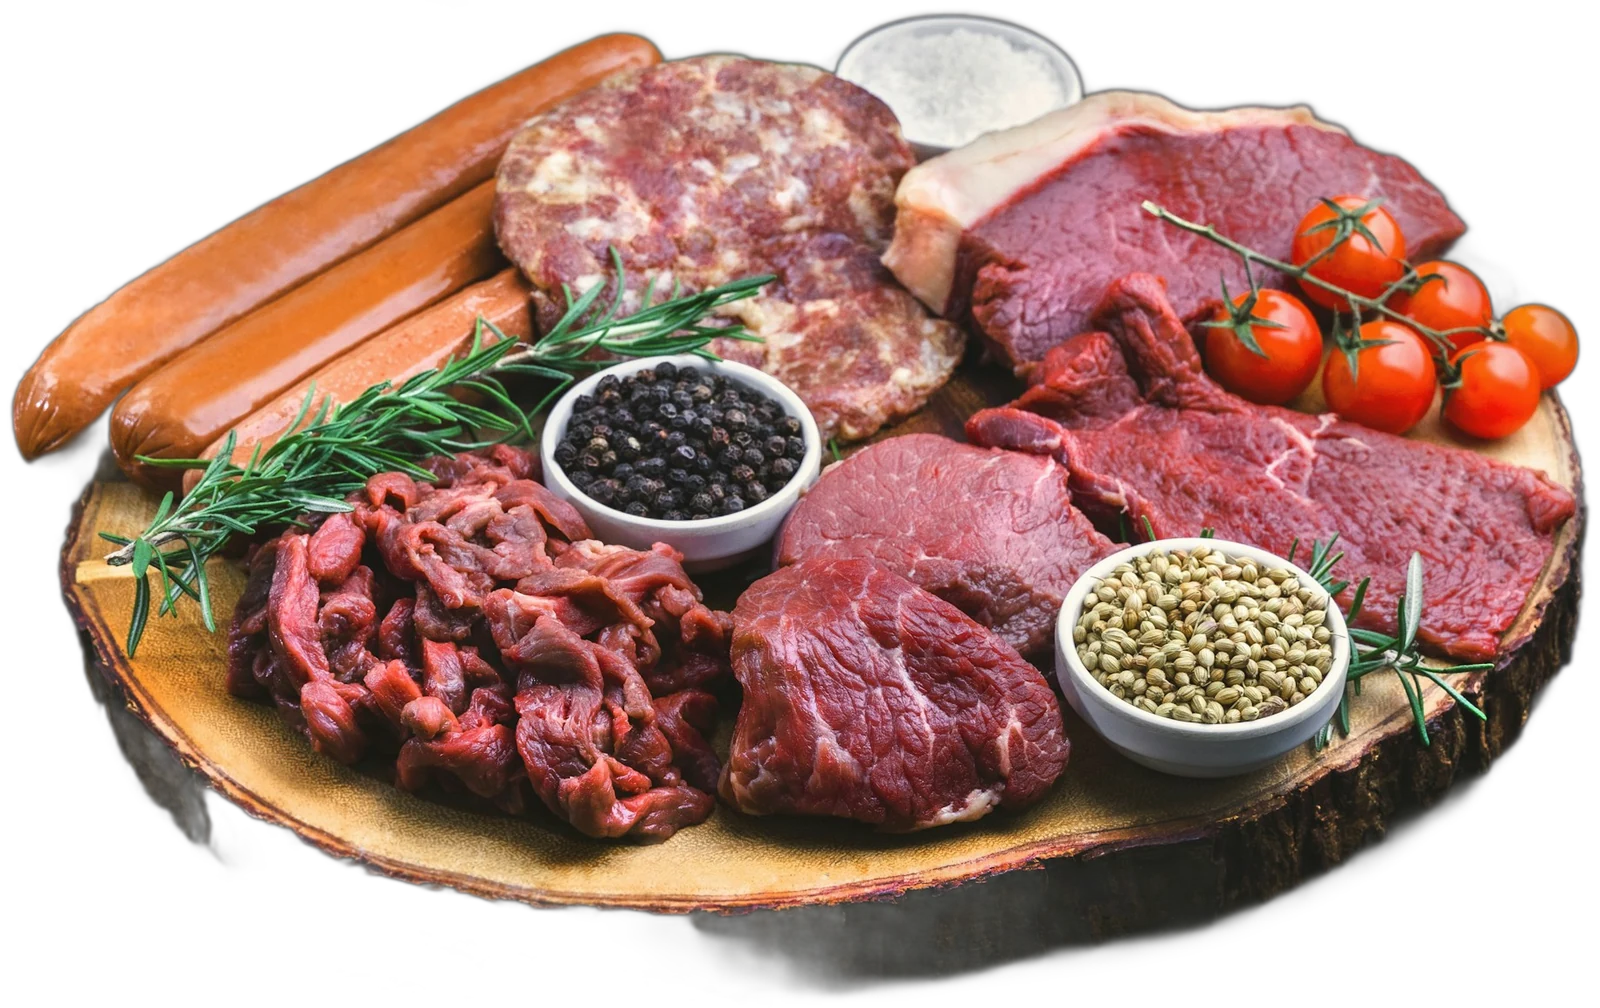
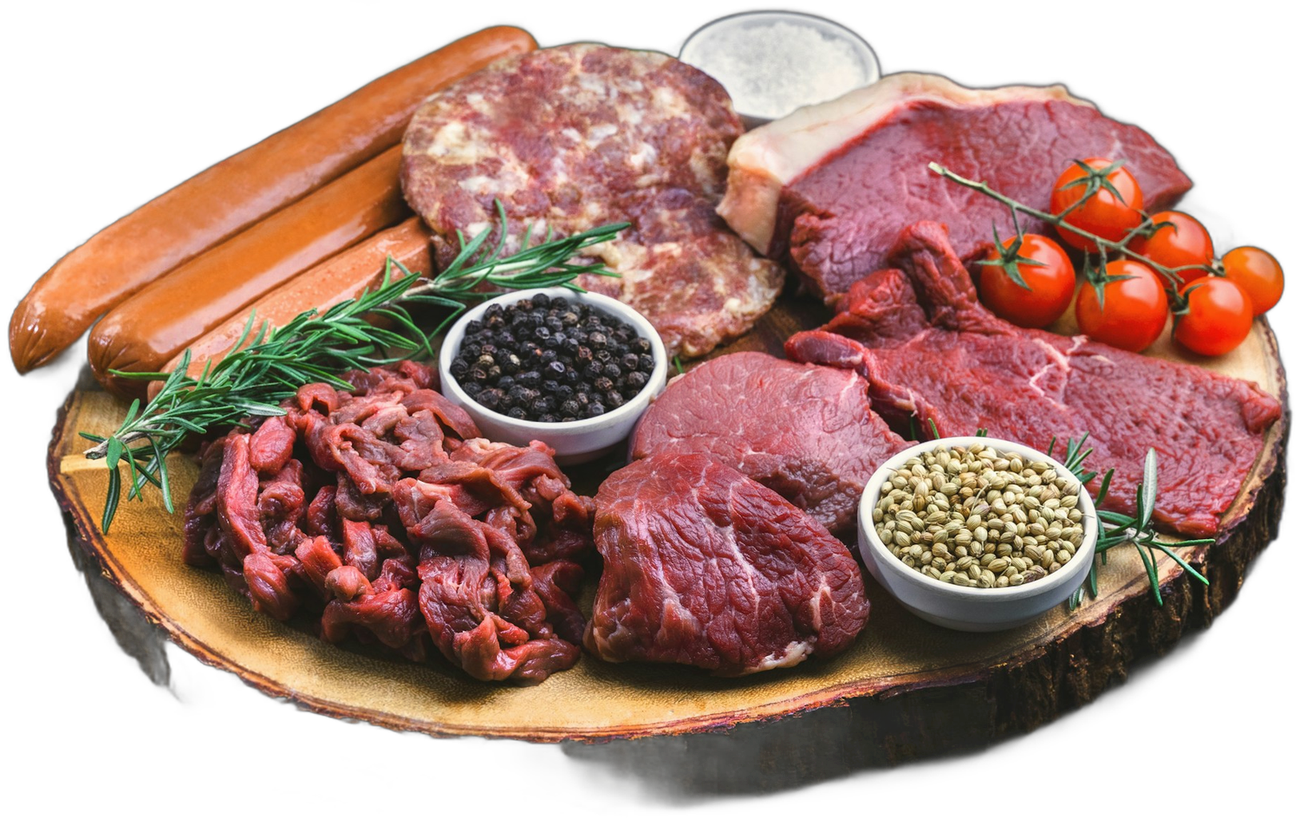
Починить вёрстку шапки на 1024-1180px, качественнее и компактнее герой
Баг: на 5 пунктов навигации + телефон + кнопку не хватало места уже
под ~1180px (шире мобильного брейкпоинта в 900px), пункты меню
переносились на вторую строку. Переключение на бургер вынесено в
отдельный брейкпоинт (1180px), не завязанный на брейкпоинт сетки
контента — герою и карточкам там ещё вполне просторно.

Картинка героя: перегенерирована с более чистым краем (меньше фетера)
и экспортирована без потерь (lossless WebP) вместо lossy — не будет
компрессионных артефактов на текстуре мяса. Сама картинка уменьшена
(480px -> 400px высоты слота) по просьбе.

diff --git a/site.css b/site.css
@@ -80,7 +80,7 @@ h1,h2,h3,.title{font-family:var(--serif);color:var(--ink);margin:0}
    к краю экрана. Высота ячейки фиксирована, у картинки задана только
    height:100% — перетекание строго горизонтальное, без наезда на подпись
    снизу; ширина сама следует из пропорций кадра. */
-.hero-shot{position:relative;height:480px}
+.hero-shot{position:relative;height:400px}
 .hero-cutout{position:absolute;top:0;left:0;height:100%;width:auto;max-width:none;filter:drop-shadow(0 22px 26px rgba(36,38,43,.22)) drop-shadow(0 4px 8px rgba(36,38,43,.16))}
 .shot-tag{display:flex;align-items:baseline;gap:10px;margin-top:20px;padding-top:14px;border-top:1px solid var(--line);font-size:12px;color:var(--muted)}
 .shot-tag b{font-family:var(--serif);font-size:15px;color:var(--ink);text-transform:uppercase;letter-spacing:.5px}
@@ -182,12 +182,18 @@ h1,h2,h3,.title{font-family:var(--serif);color:var(--ink);margin:0}
 .toast{position:fixed;right:20px;bottom:20px;background:var(--ink);color:#fff;padding:16px 20px;border-radius:var(--radius-sm);z-index:30;opacity:0;transform:translateY(20px);transition:.2s}
 .toast.show{opacity:1;transform:none}
 
-@media(max-width:900px){
-  .wrap{width:min(100% - 28px,680px)}
-  .topbar{display:none}
+/* Шапка ломается раньше, чем сетка контента: на 5 пунктов навигации +
+   телефон + кнопку не хватает места уже под 1180px, хотя герою и карточкам
+   там ещё вполне просторно. Поэтому переключение на бургер — отдельный,
+   более широкий брейкпоинт, не завязанный на брейкпоинт сетки ниже. */
+@media(max-width:1180px){
   .nav,.header .phone,.header .button{display:none}
   .burger{display:block}
   .mobile-nav.open{display:grid;padding:15px 0 25px;gap:14px}
+}
+@media(max-width:900px){
+  .wrap{width:min(100% - 28px,680px)}
+  .topbar{display:none}
   .hero{padding:40px 0}
   .hero-grid,.cta,.banner{grid-template-columns:1fr}
   .hero h1{font-size:48px}

diff --git a/index.html b/index.html
@@ -17,7 +17,7 @@
   </div>
   <div>
     <div class="hero-shot">
-      <img class="hero-cutout" src="assets/meat-hero.webp" width="1600" height="1008" alt="Мясное ассорти на разделочной доске: говядина, свинина, колбаски">
+      <img class="hero-cutout" src="assets/meat-hero.webp" width="1300" height="818" alt="Мясное ассорти на разделочной доске: говядина, свинина, колбаски">
     </div>
     <div class="shot-tag"><b>Пермь</b><span>Поставки для профессиональной кухни</span></div>
   </div>
